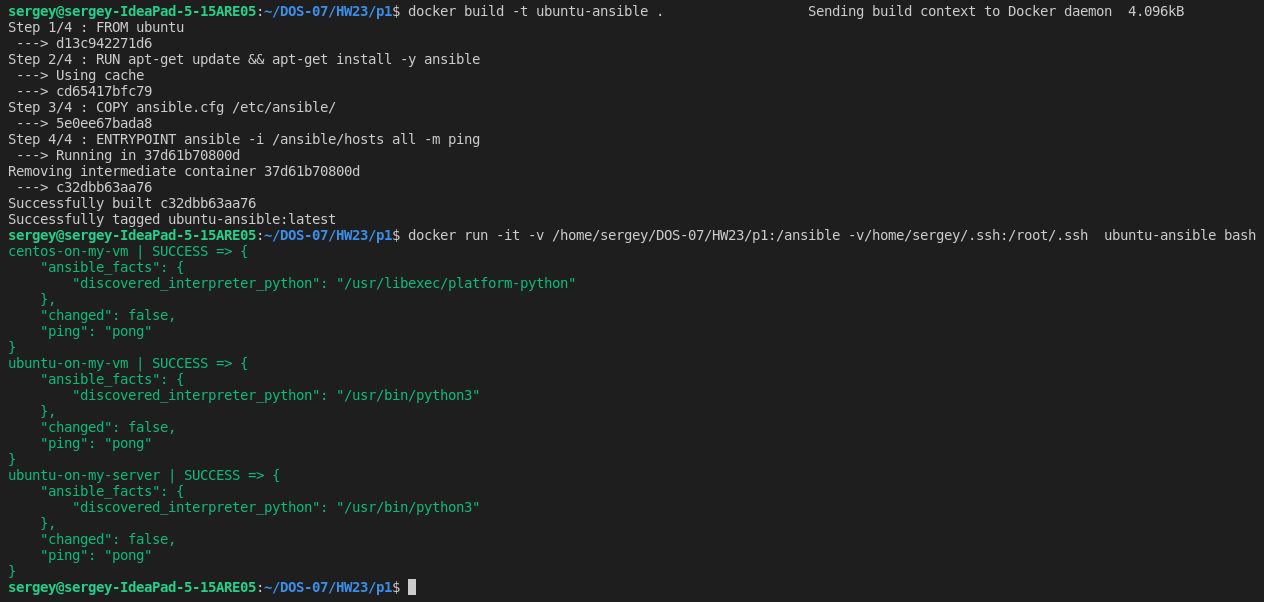
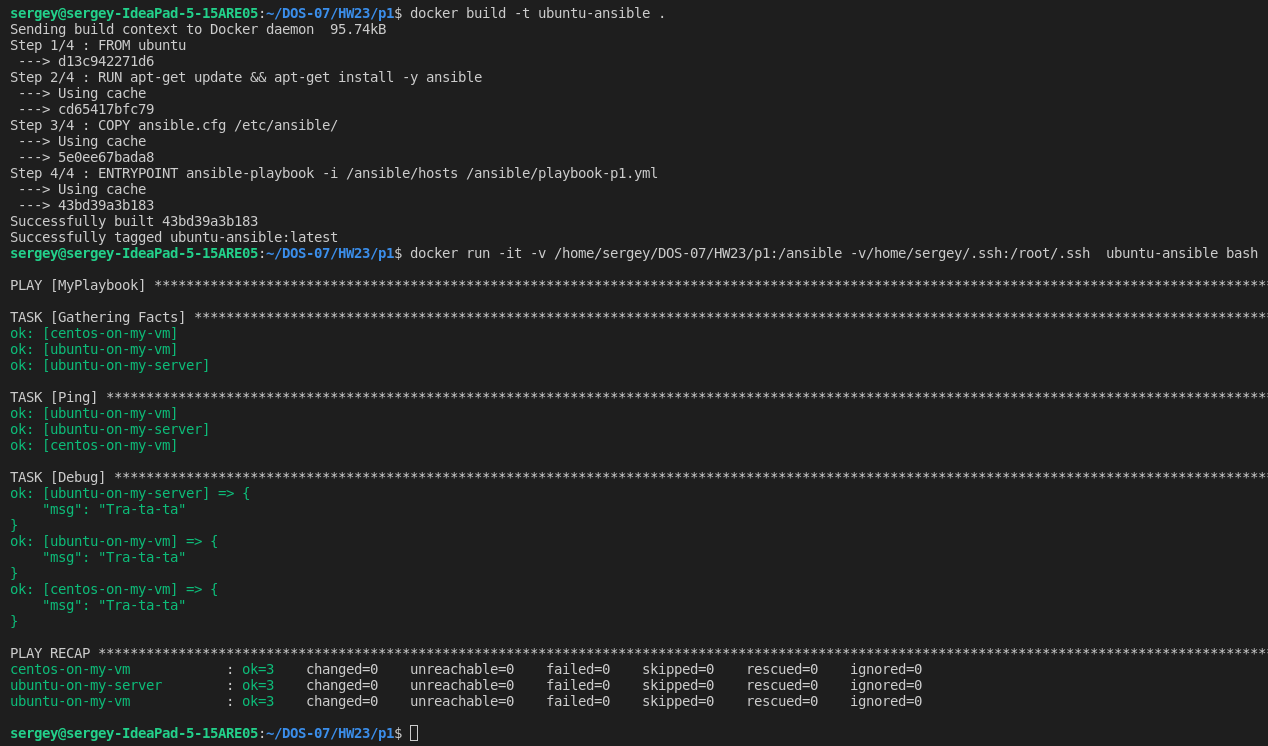
2 correction in HW23

Changed region(s): [[0.0, 0.0, 1.0, 1.0], [0.6479, 0.0, 0.9565, 0.0299]]

diff --git a/HW23/README.md b/HW23/README.md
@@ -4,9 +4,10 @@
 ##### 1. Развернуть систему управления конфигруацией ansible в докере и управлять нашими хостами
  - Написал (/p1/Dockerfile)
  - docker build -t ubuntu-ansible .
- - Написал /p1/hosts (в качестве inventory) 
+ - Написал /p1/hosts (в качестве inventory)
+ - Написан /p1/playbook-p1.yml 
  - docker run -it -v /home/sergey/DOS-07/HW23/p1:/ansible -v/home/sergey/.ssh:/root/.ssh  ubuntu-ansible bash
- монтирую в контейнер директории с моим hosts и с ключами 
+ монтирую в контейнер директории с моим hosts,playbook и с ключами 
 
 ![N|Solid](https://github.com/serwol2/DOS-07/blob/HW23/HW23/p1/screenshot-p1.png)
 
